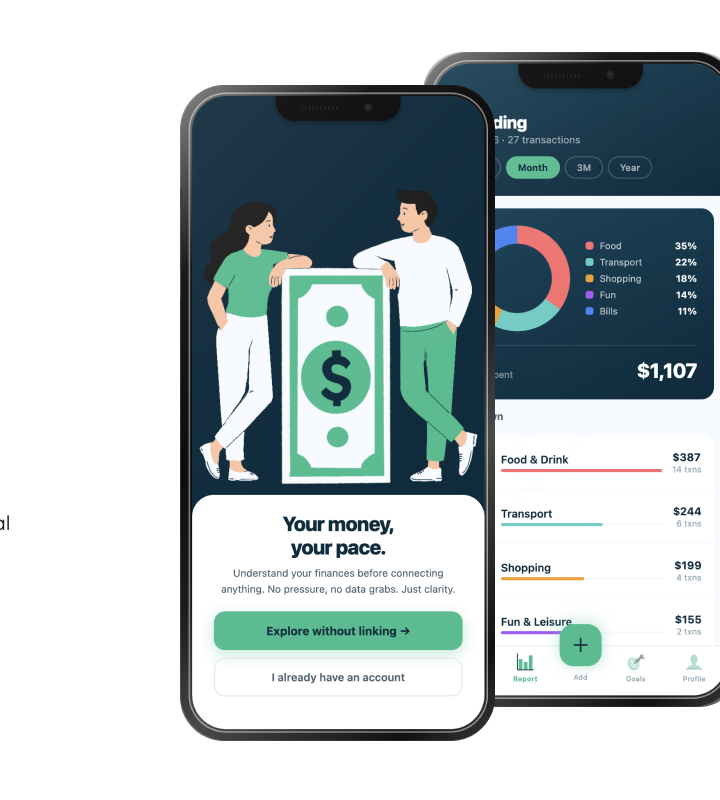
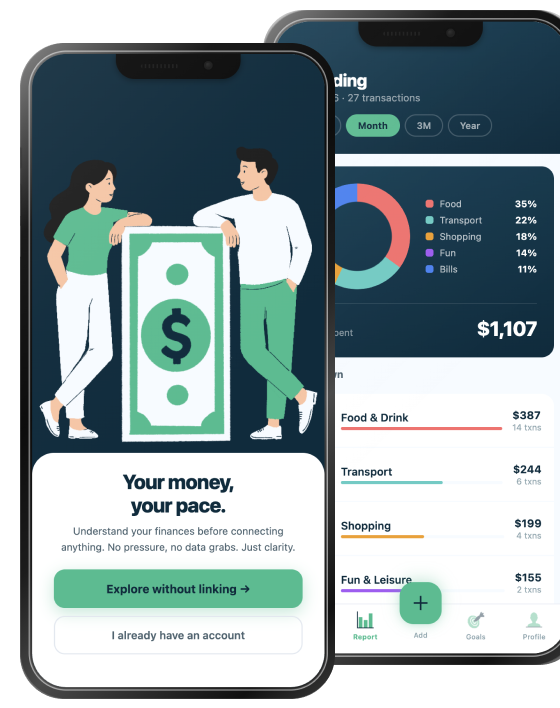
Mobile work cards redesign: full-width mockup images, aligned text/buttons, 20px side margins, 30px gaps
- Redesign mobile card layout: mockup image full-width edge-to-edge, text and See more button below with 20px left margin
- Remove section side padding on mobile, let cards control their own margins
- Crop all six mobile images (cover + text) for Gyanshala, EasyMoney, Newsby to trim whitespace and align left edges
- Remove border-radius on mobile mockup images for clean 90-degree corners
- Hide nav icons on mobile, nest LinkedIn under hamburger drawer with X-to-close animation
- Remove hero/work section gap on mobile

diff --git a/style.css b/style.css
@@ -187,6 +187,11 @@ h1, h2, h3 { font-family: var(--font-display); font-weight: 400; line-height: 1.
   border-radius: 2px;
   transition: transform 0.3s, opacity 0.3s;
 }
+/* X when open */
+.nav-hamburger[aria-expanded="true"] { position: relative; z-index: 100; }
+.nav-hamburger[aria-expanded="true"] span:nth-child(1) { transform: translateY(7px) rotate(45deg); }
+.nav-hamburger[aria-expanded="true"] span:nth-child(2) { opacity: 0; }
+.nav-hamburger[aria-expanded="true"] span:nth-child(3) { transform: translateY(-7px) rotate(-45deg); }
 
 /* ── HERO ─────────────────────────────────────────────────── */
 .hero {
@@ -959,6 +964,9 @@ h1, h2, h3 { font-family: var(--font-display); font-weight: 400; line-height: 1.
 
 /* ── RESPONSIVE ───────────────────────────────────────────── */
 /* Mobile nav open state */
+/* Icons inside drawer — hidden by default, shown when drawer open */
+.nav-drawer-icons { display: none; }
+
 .nav-links.nav-open {
   display: flex;
   flex-direction: column;
@@ -974,6 +982,14 @@ h1, h2, h3 { font-family: var(--font-display); font-weight: 400; line-height: 1.
   font-size: 1.5rem;
   color: var(--ink);
 }
+.nav-links.nav-open .nav-drawer-icons {
+  display: flex;
+  margin-top: 0.5rem;
+}
+.nav-links.nav-open .nav-drawer-icons a {
+  font-size: 1.5rem;
+  color: var(--ink);
+}
 .nav-links a.active { color: var(--ink); }
 .nav-links a.active::after { width: 100%; }
 
@@ -983,6 +999,8 @@ h1, h2, h3 { font-family: var(--font-display); font-weight: 400; line-height: 1.
   .hero-bio { margin: 0 auto 2.5rem; }
   .hero-actions { justify-content: center; }
   .hero-scroll-hint { display: none; }
+  .hero { padding-bottom: 1.25rem; }
+  .section-rule { margin-top: 0; }
 
   .case-card, .case-card--right { grid-template-columns: 1fr; direction: ltr; gap: 2rem; }
   .case-card__image img { height: auto; }
@@ -996,30 +1014,55 @@ h1, h2, h3 { font-family: var(--font-display); font-weight: 400; line-height: 1.
 
   .nav-links { display: none; }
   .nav-hamburger { display: flex; }
+  .nav-icons { display: none; }
+  .nav-inner { grid-template-columns: 1fr auto; }
 
-  /* Hide desktop overlay button, show info row instead */
+  /* Hide desktop overlay button */
   .case-card-full__btn { display: none; }
 
-  .case-card-full {
-    overflow: hidden;
-    background: #fff;
+  /* Remove section side padding on mobile so cards control their own margins */
+  .section.work {
+    padding-left: 0;
+    padding-right: 0;
   }
 
-  /* Image fills full width at natural height */
+  .work-header {
+    padding-left: 20px;
+    padding-right: 20px;
+  }
+
+  /* No card container on mobile — just content */
+  .case-card-full {
+    overflow: visible;
+    background: transparent;
+    border-radius: 0;
+    width: auto;
+    margin-left: 20px;
+    margin-right: 20px;
+  }
+
   .case-card-full picture {
     display: block;
+    margin-left: -20px;
+    margin-right: -20px;
   }
 
-  .case-card-full img {
-    height: auto;
+  /* Mockup image: full width, no rounded corners */
+  .case-card-full picture img,
+  .case-card-full > img {
     width: 100%;
+    height: auto;
     display: block;
+    border-radius: 0;
   }
 
-  /* Text image + button below the mockup */
+  /* Text image + button below */
   .case-card-full__info {
     display: flex;
     flex-direction: column;
+    align-items: flex-start;
+    padding: 0;
+    margin-top: 30px;
   }
 
   .case-card-full__info-img {
@@ -1028,24 +1071,20 @@ h1, h2, h3 { font-family: var(--font-display); font-weight: 400; line-height: 1.
     display: block;
   }
 
-  .case-card-full__info-btn-row {
-    display: flex;
-    justify-content: flex-end;
-    padding: 0.6rem 1rem 0.9rem;
-  }
-
+  /* Large dark filled button, aligned with text */
   .case-card-full__btn-mobile {
     display: inline-block;
-    flex-shrink: 0;
     font-family: var(--font-body);
-    font-size: 0.78rem;
+    font-size: 0.95rem;
     font-weight: 500;
-    padding: 0.38rem 0.9rem;
-    border: 1.5px solid var(--ink);
+    padding: 0.8rem 2rem;
+    background: var(--ink);
+    color: #fff;
+    border: none;
     border-radius: 100px;
-    background: transparent;
-    color: var(--ink);
     white-space: nowrap;
+    margin-top: 30px;
+    margin-left: 5px;
   }
 }
 

diff --git a/index.html b/index.html
@@ -8,7 +8,7 @@
   <link rel="preconnect" href="https://fonts.googleapis.com">
   <link rel="preconnect" href="https://fonts.gstatic.com" crossorigin>
   <link href="https://fonts.googleapis.com/css2?family=Fraunces:ital,opsz,wght@0,9..144,300;0,9..144,400;0,9..144,600;1,9..144,300;1,9..144,400&family=DM+Sans:wght@300;400;500&display=swap" rel="stylesheet">
-  <link rel="stylesheet" href="style.css?v=21">
+  <link rel="stylesheet" href="style.css?v=26">
 </head>
 <body>
 
@@ -21,6 +21,9 @@
         <li><a href="#about">About</a></li>
         <li><a href="#playground">Playground</a></li>
         <li><a href="#contact">Contact</a></li>
+        <li class="nav-drawer-icons">
+          <a href="https://www.linkedin.com/in/pragya--kothari/" target="_blank" rel="noopener">LinkedIn</a>
+        </li>
       </ul>
       <div class="nav-icons">
         <a href="https://www.linkedin.com/in/pragya--kothari/" target="_blank" rel="noopener" aria-label="LinkedIn">
@@ -68,9 +71,7 @@
       <span class="case-card-full__btn case-card-full__btn--right">See more</span>
       <div class="case-card-full__info">
         <img class="case-card-full__info-img" src="images/work/gyanshala-text-mobile.png" alt="Gyanshala description">
-        <div class="case-card-full__info-btn-row">
-          <span class="case-card-full__btn-mobile">See more</span>
-        </div>
+        <span class="case-card-full__btn-mobile">See more</span>
       </div>
     </a>
 
@@ -83,9 +84,7 @@
       <span class="case-card-full__btn case-card-full__btn--left">See more</span>
       <div class="case-card-full__info">
         <img class="case-card-full__info-img" src="images/work/easymoney-text-mobile.png" alt="EasyMoney description">
-        <div class="case-card-full__info-btn-row">
-          <span class="case-card-full__btn-mobile">See more</span>
-        </div>
+        <span class="case-card-full__btn-mobile">See more</span>
       </div>
     </a>
 
@@ -98,9 +97,7 @@
       <span class="case-card-full__btn">See more</span>
       <div class="case-card-full__info">
         <img class="case-card-full__info-img" src="images/work/newsby-text-mobile.png" alt="Newsby description">
-        <div class="case-card-full__info-btn-row">
-          <span class="case-card-full__btn-mobile">See more</span>
-        </div>
+        <span class="case-card-full__btn-mobile">See more</span>
       </div>
     </a>
   </section>

diff --git a/phone-preview.html b/phone-preview.html
@@ -1,0 +1,101 @@
+<!DOCTYPE html>
+<html lang="en">
+<head>
+  <meta charset="UTF-8">
+  <meta name="viewport" content="width=device-width, initial-scale=1.0">
+  <title>Phone Preview</title>
+  <style>
+    * { box-sizing: border-box; margin: 0; padding: 0; }
+    body {
+      background: #1a1a1a;
+      display: flex;
+      justify-content: center;
+      align-items: flex-start;
+      padding: 40px 20px;
+      min-height: 100vh;
+      font-family: sans-serif;
+    }
+
+    .phone {
+      position: relative;
+      width: 393px;
+      background: #000;
+      border-radius: 54px;
+      padding: 14px;
+      box-shadow:
+        0 0 0 2px #333,
+        0 0 0 4px #555,
+        0 30px 80px rgba(0,0,0,0.8);
+    }
+
+    /* Side buttons */
+    .phone::before {
+      content: '';
+      position: absolute;
+      left: -4px;
+      top: 130px;
+      width: 4px;
+      height: 36px;
+      background: #444;
+      border-radius: 2px 0 0 2px;
+      box-shadow: 0 52px 0 #444, 0 96px 0 #444;
+    }
+    .phone::after {
+      content: '';
+      position: absolute;
+      right: -4px;
+      top: 170px;
+      width: 4px;
+      height: 72px;
+      background: #444;
+      border-radius: 0 2px 2px 0;
+    }
+
+    .screen {
+      background: #fff;
+      border-radius: 44px;
+      overflow: hidden;
+      position: relative;
+      height: 852px;
+    }
+
+    /* Dynamic island */
+    .dynamic-island {
+      position: absolute;
+      top: 14px;
+      left: 50%;
+      transform: translateX(-50%);
+      width: 120px;
+      height: 36px;
+      background: #000;
+      border-radius: 20px;
+      z-index: 10;
+    }
+
+    iframe {
+      width: 375px;
+      height: 852px;
+      border: none;
+      display: block;
+    }
+
+    .label {
+      color: #666;
+      text-align: center;
+      margin-top: 20px;
+      font-size: 13px;
+    }
+  </style>
+</head>
+<body>
+  <div>
+    <div class="phone">
+      <div class="screen">
+        <div class="dynamic-island"></div>
+        <iframe src="index.html" title="Portfolio preview"></iframe>
+      </div>
+    </div>
+    <p class="label">pragyakothari.com — mobile preview</p>
+  </div>
+</body>
+</html>
